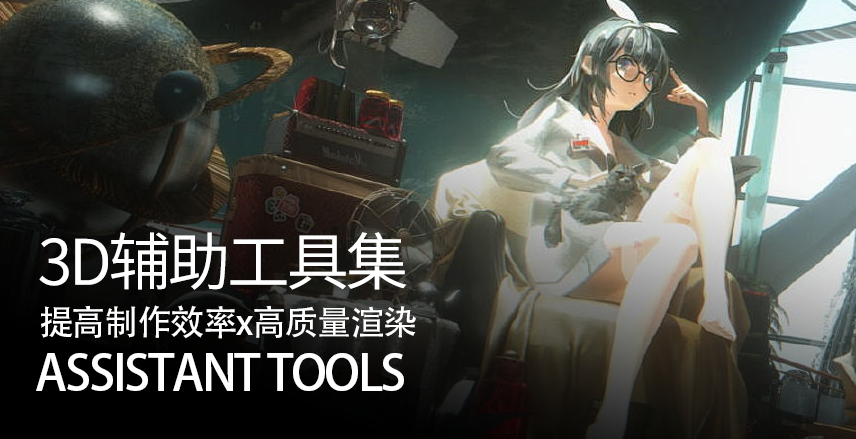
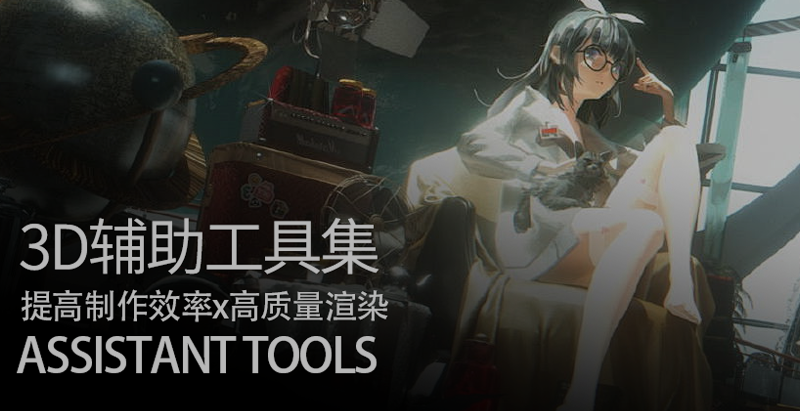
更新

diff --git a/Assistant_tool.py b/Assistant_tool.py
@@ -417,7 +417,8 @@ class ModelingToolsUI(QtWidgets.QDialog):
     def __init__(self, parent=maya_main_window()):
         super(ModelingToolsUI, self).__init__(parent)
         self.setWindowTitle(f"3D Assistant Tools v{CURRENT_VERSION}")
-        self.setMinimumWidth(600)
+        # 固定宽度为500像素
+        self.setFixedWidth(500)
         self.setWindowFlags(self.windowFlags() ^ QtCore.Qt.WindowContextHelpButtonHint)
         self.camera_snapshots = {}
         self.create_widgets()
@@ -447,7 +448,8 @@ class ModelingToolsUI(QtWidgets.QDialog):
             if response.status_code == 200:
                 pixmap = QtGui.QPixmap()
                 pixmap.loadFromData(response.content)
-                pixmap = pixmap.scaledToWidth(460, QtCore.Qt.SmoothTransformation)
+                # 缩小横幅以适应500像素宽度
+                pixmap = pixmap.scaledToWidth(400, QtCore.Qt.SmoothTransformation)
                 self.banner_label.setPixmap(pixmap)
         except: pass
 
@@ -473,7 +475,8 @@ class ModelingToolsUI(QtWidgets.QDialog):
         self.hdri_progress = QtWidgets.QProgressBar()
         self.hdri_progress.setRange(0, 100)
         
-        SLIDER_WIDTH = 300
+        # 缩小滑块宽度以适应500像素宽度
+        SLIDER_WIDTH = 250
         self.hdri_exposure_slider = QtWidgets.QSlider(QtCore.Qt.Horizontal)
         self.hdri_exposure_slider.setRange(-40, 80)
         self.hdri_exposure_slider.setFixedWidth(SLIDER_WIDTH)
@@ -555,7 +558,7 @@ class ModelingToolsUI(QtWidgets.QDialog):
 
     def create_layout(self):
         main_layout = QtWidgets.QVBoxLayout(self)
-        main_layout.setSpacing(8)
+        main_layout.setSpacing(6)  # 减小间距
         main_layout.addWidget(self.banner_label)
         main_layout.addWidget(self.tabs)
         
@@ -568,7 +571,7 @@ class ModelingToolsUI(QtWidgets.QDialog):
         # 建模选项卡
         modeling_page = QtWidgets.QWidget()
         modeling_layout = QtWidgets.QVBoxLayout(modeling_page)
-        modeling_layout.setSpacing(8)
+        modeling_layout.setSpacing(6)  # 减小间距
         
         # 创建带标题的分组函数
         def create_group(title, widgets):
@@ -597,14 +600,15 @@ class ModelingToolsUI(QtWidgets.QDialog):
         # 材质选项卡
         mat_page = QtWidgets.QWidget()
         mat_layout = QtWidgets.QVBoxLayout(mat_page)
-        mat_layout.setSpacing(8)
+        mat_layout.setSpacing(6)  # 减小间距
         
         color_group = QtWidgets.QGroupBox("Color Presets")
         color_layout = QtWidgets.QVBoxLayout()
         
         color_grid = QtWidgets.QGridLayout()
+        # 每行4个按钮以适应500像素宽度
         for i, btn in enumerate(self.color_buttons):
-            color_grid.addWidget(btn, i//5, i%5)
+            color_grid.addWidget(btn, i//4, i%4)
         color_layout.addLayout(color_grid)
         
         tip_label = QtWidgets.QLabel("Tip: Select objects then click color button to assign material")
@@ -625,7 +629,7 @@ class ModelingToolsUI(QtWidgets.QDialog):
         # 相机选项卡
         cam_page = QtWidgets.QWidget()
         cam_layout = QtWidgets.QVBoxLayout(cam_page)
-        cam_layout.setSpacing(8)
+        cam_layout.setSpacing(6)  # 减小间距
         
         cam_create_group = QtWidgets.QGroupBox("Camera")
         cam_create_layout = QtWidgets.QVBoxLayout()
@@ -651,7 +655,7 @@ class ModelingToolsUI(QtWidgets.QDialog):
         # 灯光选项卡
         light_page = QtWidgets.QWidget()
         light_layout = QtWidgets.QVBoxLayout(light_page)
-        light_layout.setSpacing(8)
+        light_layout.setSpacing(6)  # 减小间距
         
         light_group = QtWidgets.QGroupBox("Light Creation")
         light_group_layout = QtWidgets.QGridLayout()
@@ -729,7 +733,7 @@ class ModelingToolsUI(QtWidgets.QDialog):
         # 渲染选项卡
         render_page = QtWidgets.QWidget()
         render_layout = QtWidgets.QVBoxLayout(render_page)
-        render_layout.setSpacing(8)
+        render_layout.setSpacing(6)  # 减小间距
         
         render_group = QtWidgets.QGroupBox("Rendering")
         render_group_layout = QtWidgets.QVBoxLayout()
